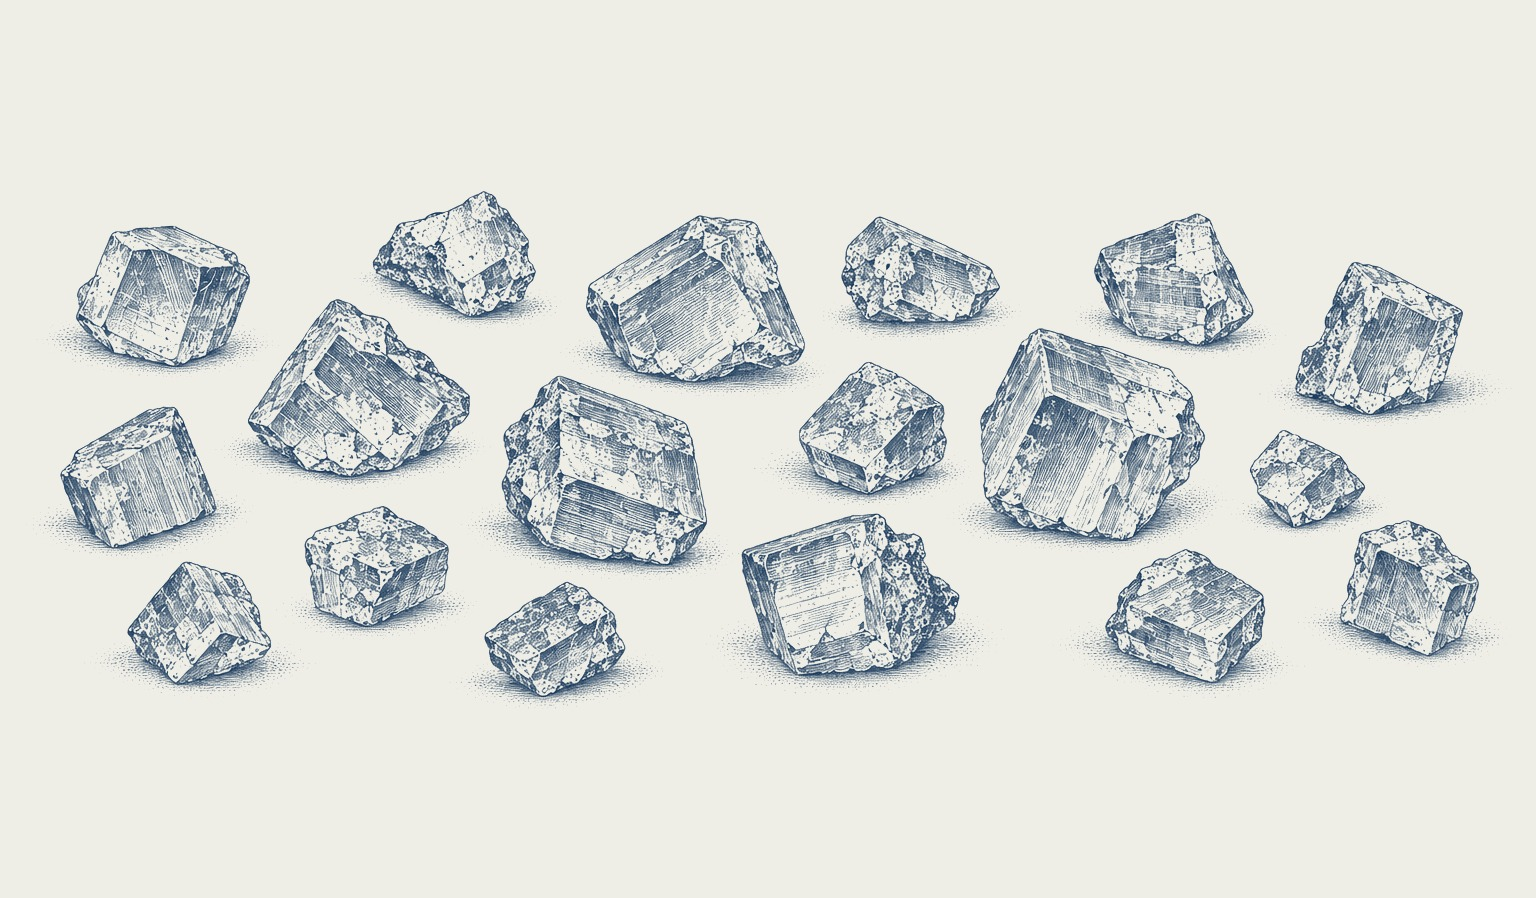
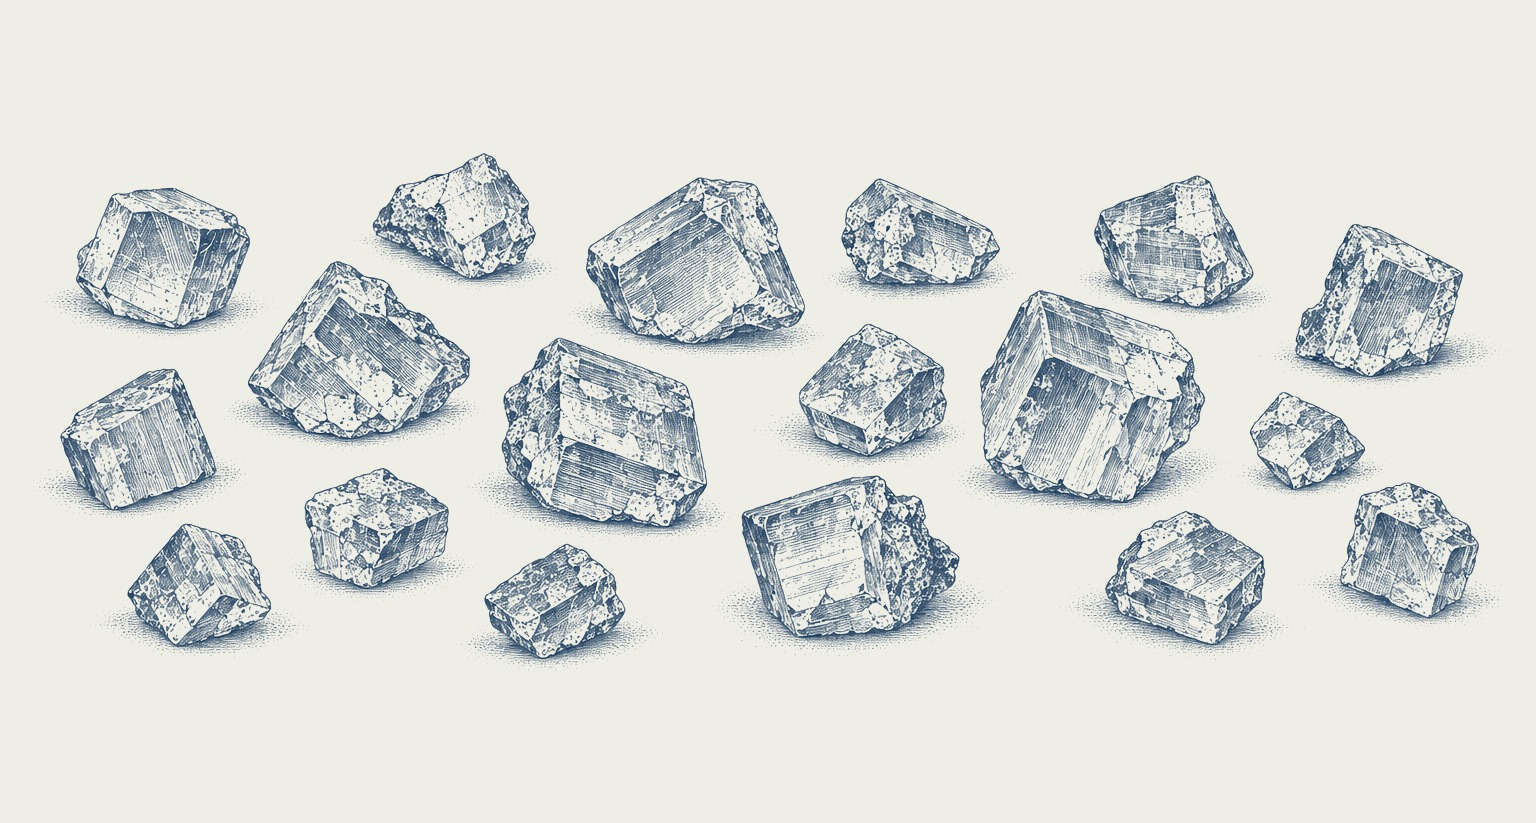
022: texto bajo el título y nota editorial a su derecha

Changed region(s): [[0.0312, 0.1823, 0.9688, 0.8202]]

diff --git a/index.html b/index.html
@@ -5,23 +5,23 @@
 <meta charset="utf-8">
 <meta name="viewport" content="width=1280">
 <title>Darwin en la Argentina — libro</title>
-<link rel="stylesheet" href="styles/tokens.css?v=cfd036e3">
-<link rel="stylesheet" href="styles/typography.css?v=cfd036e3">
-<link rel="stylesheet" href="styles/grid.css?v=cfd036e3">
-<link rel="stylesheet" href="styles/components.css?v=cfd036e3">
-<link rel="stylesheet" href="styles/pages.css?v=cfd036e3">
-<link rel="stylesheet" href="styles/maps.css?v=cfd036e3">
-<link rel="stylesheet" href="styles/paradas.css?v=cfd036e3">
-<link rel="stylesheet" href="styles/registros.css?v=cfd036e3">
-<link rel="stylesheet" href="styles/tramo-03.css?v=cfd036e3">
-<link rel="stylesheet" href="styles/tramo-04-05.css?v=cfd036e3">
-<link rel="stylesheet" href="styles/tramo-05-07.css?v=cfd036e3">
-<link rel="stylesheet" href="styles/tramo-07-10.css?v=cfd036e3">
-<link rel="stylesheet" href="styles/tramo-10-15.css?v=cfd036e3">
-<link rel="stylesheet" href="styles/fotos.css?v=cfd036e3">
-<link rel="stylesheet" href="tapa/tapa.css?v=cfd036e3">
-<link rel="stylesheet" href="styles/medida.css?v=cfd036e3">
-<link rel="stylesheet" href="styles/print.css?v=cfd036e3">
+<link rel="stylesheet" href="styles/tokens.css?v=47496cac">
+<link rel="stylesheet" href="styles/typography.css?v=47496cac">
+<link rel="stylesheet" href="styles/grid.css?v=47496cac">
+<link rel="stylesheet" href="styles/components.css?v=47496cac">
+<link rel="stylesheet" href="styles/pages.css?v=47496cac">
+<link rel="stylesheet" href="styles/maps.css?v=47496cac">
+<link rel="stylesheet" href="styles/paradas.css?v=47496cac">
+<link rel="stylesheet" href="styles/registros.css?v=47496cac">
+<link rel="stylesheet" href="styles/tramo-03.css?v=47496cac">
+<link rel="stylesheet" href="styles/tramo-04-05.css?v=47496cac">
+<link rel="stylesheet" href="styles/tramo-05-07.css?v=47496cac">
+<link rel="stylesheet" href="styles/tramo-07-10.css?v=47496cac">
+<link rel="stylesheet" href="styles/tramo-10-15.css?v=47496cac">
+<link rel="stylesheet" href="styles/fotos.css?v=47496cac">
+<link rel="stylesheet" href="tapa/tapa.css?v=47496cac">
+<link rel="stylesheet" href="styles/medida.css?v=47496cac">
+<link rel="stylesheet" href="styles/print.css?v=47496cac">
 </head>
 <body>
 <div class="spread"><div class="slot--empty"></div><section class="page page--cover page--right front" id="ptapa">
@@ -734,16 +734,16 @@
     <p class="p022__note-ed t-data"><span class="notetag notetag--ed">ED</span>«Padre» y «madre de la sal» son los nombres que Darwin recoge de los gauchos; no son nomenclatura científica actual.</p>
 
     <figure class="p022__fig-a regcard">
-      <svg class="lamina" viewBox="0 0 92.34 54" role="img" aria-label="Cristal de yeso alargado, de caras planas y puntas facetadas, a tamaño real">
-        <image href="assets/images/022a-padre.jpg" width="92.34" height="54"/>
-        <path class="lamina__line" d="M11.17 36.95V38.95M81.17 36.95V38.95M11.17 37.95H81.17"/>
-        <text class="lamina__text" x="46.17" y="41.15" text-anchor="middle">7 cm · tamaño real</text>
+      <svg class="lamina" viewBox="0 0 92.34 49.5" role="img" aria-label="Cristal de yeso alargado, de caras planas y puntas facetadas, a tamaño real">
+        <image href="assets/images/022a-padre.jpg" width="92.34" height="49.5"/>
+        <path class="lamina__line" d="M11.17 34.7V36.7M81.17 34.7V36.7M11.17 35.7H81.17"/>
+        <text class="lamina__text" x="46.17" y="38.9" text-anchor="middle">7 cm · tamaño real</text>
       </svg>
       <figcaption><b class="t-label t-label--strong">«El padre de la sal»</b><span class="t-data">Cristales de yeso, sepultados en el légamo de las márgenes.</span></figcaption>
     </figure>
     <figure class="p022__fig-b regcard">
-      <svg class="lamina" viewBox="0 0 92.34 54" role="img" aria-label="Cristales pequeños de sulfato de sodio esparcidos">
-        <image href="assets/images/022b-madre.jpg" width="92.34" height="54"/>
+      <svg class="lamina" viewBox="0 0 92.34 49.5" role="img" aria-label="Cristales pequeños de sulfato de sodio esparcidos">
+        <image href="assets/images/022b-madre.jpg" width="92.34" height="49.5"/>
       </svg>
       <figcaption><b class="t-label t-label--strong">«La madre»</b><span class="t-data">Sulfato de sodio, esparcido en la superficie.</span></figcaption>
     </figure>

diff --git a/pages/022.html b/pages/022.html
@@ -11,16 +11,16 @@
     <p class="p022__note-ed t-data"><span class="notetag notetag--ed">ED</span>«Padre» y «madre de la sal» son los nombres que Darwin recoge de los gauchos; no son nomenclatura científica actual.</p>
 
     <figure class="p022__fig-a regcard">
-      <svg class="lamina" viewBox="0 0 92.34 54" role="img" aria-label="Cristal de yeso alargado, de caras planas y puntas facetadas, a tamaño real">
-        <image href="assets/images/022a-padre.jpg" width="92.34" height="54"/>
-        <path class="lamina__line" d="M11.17 36.95V38.95M81.17 36.95V38.95M11.17 37.95H81.17"/>
-        <text class="lamina__text" x="46.17" y="41.15" text-anchor="middle">7 cm · tamaño real</text>
+      <svg class="lamina" viewBox="0 0 92.34 49.5" role="img" aria-label="Cristal de yeso alargado, de caras planas y puntas facetadas, a tamaño real">
+        <image href="assets/images/022a-padre.jpg" width="92.34" height="49.5"/>
+        <path class="lamina__line" d="M11.17 34.7V36.7M81.17 34.7V36.7M11.17 35.7H81.17"/>
+        <text class="lamina__text" x="46.17" y="38.9" text-anchor="middle">7 cm · tamaño real</text>
       </svg>
       <figcaption><b class="t-label t-label--strong">«El padre de la sal»</b><span class="t-data">Cristales de yeso, sepultados en el légamo de las márgenes.</span></figcaption>
     </figure>
     <figure class="p022__fig-b regcard">
-      <svg class="lamina" viewBox="0 0 92.34 54" role="img" aria-label="Cristales pequeños de sulfato de sodio esparcidos">
-        <image href="assets/images/022b-madre.jpg" width="92.34" height="54"/>
+      <svg class="lamina" viewBox="0 0 92.34 49.5" role="img" aria-label="Cristales pequeños de sulfato de sodio esparcidos">
+        <image href="assets/images/022b-madre.jpg" width="92.34" height="49.5"/>
       </svg>
       <figcaption><b class="t-label t-label--strong">«La madre»</b><span class="t-data">Sulfato de sodio, esparcido en la superficie.</span></figcaption>
     </figure>

diff --git a/styles/registros.css b/styles/registros.css
@@ -94,12 +94,13 @@
 /* ── 022 · Cristales y sales ── */
 .p022__kicker { grid-column: 1 / 4; grid-row: 1; }
 .p022__title { grid-column: 1 / 4; grid-row: 2 / 4; }
-/* Arriba: título y nota a la izquierda, texto de Darwin a la derecha (como en 044). Abajo: las dos láminas, de 12 líneas de alto; su pie coincide con el de las viñetas de 023. */
-.p022__text { grid-column: 4 / 7; grid-row: 2 / 11; }
-.p022__note-ed { grid-column: 1 / 4; grid-row: 8 / 11; align-self: end; }
-.p022__fig-a { grid-column: 1 / 4; grid-row: 13 / 28; }
-.p022__fig-b { grid-column: 4 / 7; grid-row: 13 / 28; }
-.p022__fig-a svg, .p022__fig-b svg { grid-row: span 12; }
+/* Columna izquierda: título, texto de Darwin y lámina; a la derecha del texto, la nota editorial.
+   Abajo: las dos láminas, de 11 líneas de alto; su pie coincide con el de las viñetas de 023. */
+.p022__text { grid-column: 1 / 4; grid-row: 5 / 13; }
+.p022__note-ed { grid-column: 4 / 7; grid-row: 9 / 13; align-self: end; }   /* termina con la última línea del texto */
+.p022__fig-a { grid-column: 1 / 4; grid-row: 14 / 28; }
+.p022__fig-b { grid-column: 4 / 7; grid-row: 14 / 28; }
+.p022__fig-a svg, .p022__fig-b svg { grid-row: span 11; }
 
 /* ── 023 · Vida en la salmuera ── */
 .p023__title { grid-column: 1 / 5; grid-row: 2 / 4; }

diff --git a/tools/laminas.py b/tools/laminas.py
@@ -18,16 +18,16 @@ def guardar(im, name, ancho_mm):
     print(name, im.size, round(im.width / ancho_mm * 25.4), 'ppp')
 
 # 022a · cristal de yeso a TAMAÑO REAL: de punta a punta (x 55–1484 del original) = 70 mm.
-# Caja 92,34 × 54 mm; el cristal empieza a 11,17 mm del borde izquierdo (bajo la regla de 7 cm) y a 12,25 mm del superior.
+# Caja 92,34 × 49,5 mm; el cristal empieza a 11,17 mm del borde izquierdo (bajo la regla de 7 cm) y a 10 mm del superior.
 im = lamina('022a-padre')
 px = (1484 - 55) / 70
-canvas = Image.new('L', (round(92.34 * px), round(54 * px)), 255)
-canvas.paste(im, (round(11.17 * px) - 55, round(12.25 * px) - 318))
+canvas = Image.new('L', (round(92.34 * px), round(49.5 * px)), 255)
+canvas.paste(im, (round(11.17 * px) - 55, round(10 * px) - 318))
 guardar(canvas, '022a-padre', 92.34)
 
 # 022b · sulfato de sodio: franja horizontal a la proporción de la caja
 im = lamina('022b-madre')
-h = round(im.width * 54 / 92.34)
+h = round(im.width * 49.5 / 92.34)
 guardar(im.crop((0, 512 - h // 2, im.width, 512 - h // 2 + h)), '022b-madre', 92.34)
 
 # 023 · cuatro viñetas, caja 28,42 × 27 mm

diff --git a/BOOK_PROGRESS.md b/BOOK_PROGRESS.md
@@ -489,3 +489,4 @@ Se reemplazaron los 39 recuadros de imagen pendiente por ilustraciones generadas
 - 019: título en filas 3–4, con el tope de las mayúsculas a la misma altura que la primera línea del título de 018 (ajuste fino de 0,35 mm). Solo CSS.
 - 021: una línea de aire entre el rótulo «Las medidas del fragmento» y los filetes de los datos. Solo CSS. El mismo rótulo pegado a los filetes sigue así en 058 y 064 (ofrecido al usuario).
 - 022–023 reestructuradas: en 022 el texto sube arriba a la derecha (junto al título, como 044), la nota ED queda bajo el título y las dos láminas pasan a 12 líneas de alto (cristal sigue a 7 cm reales); en 023 el mosaico 2 × 2 ocupa las columnas 4–6, pegado al texto. El pie de las láminas de 022 coincide con el de las viñetas de 023.
+- 022 (ajuste pedido): texto de Darwin bajo el título (cols 1–3, filas 5–12), nota ED a su derecha terminando con la última línea del texto, láminas de 11 líneas (filas 14–24). 023 queda como estaba.
